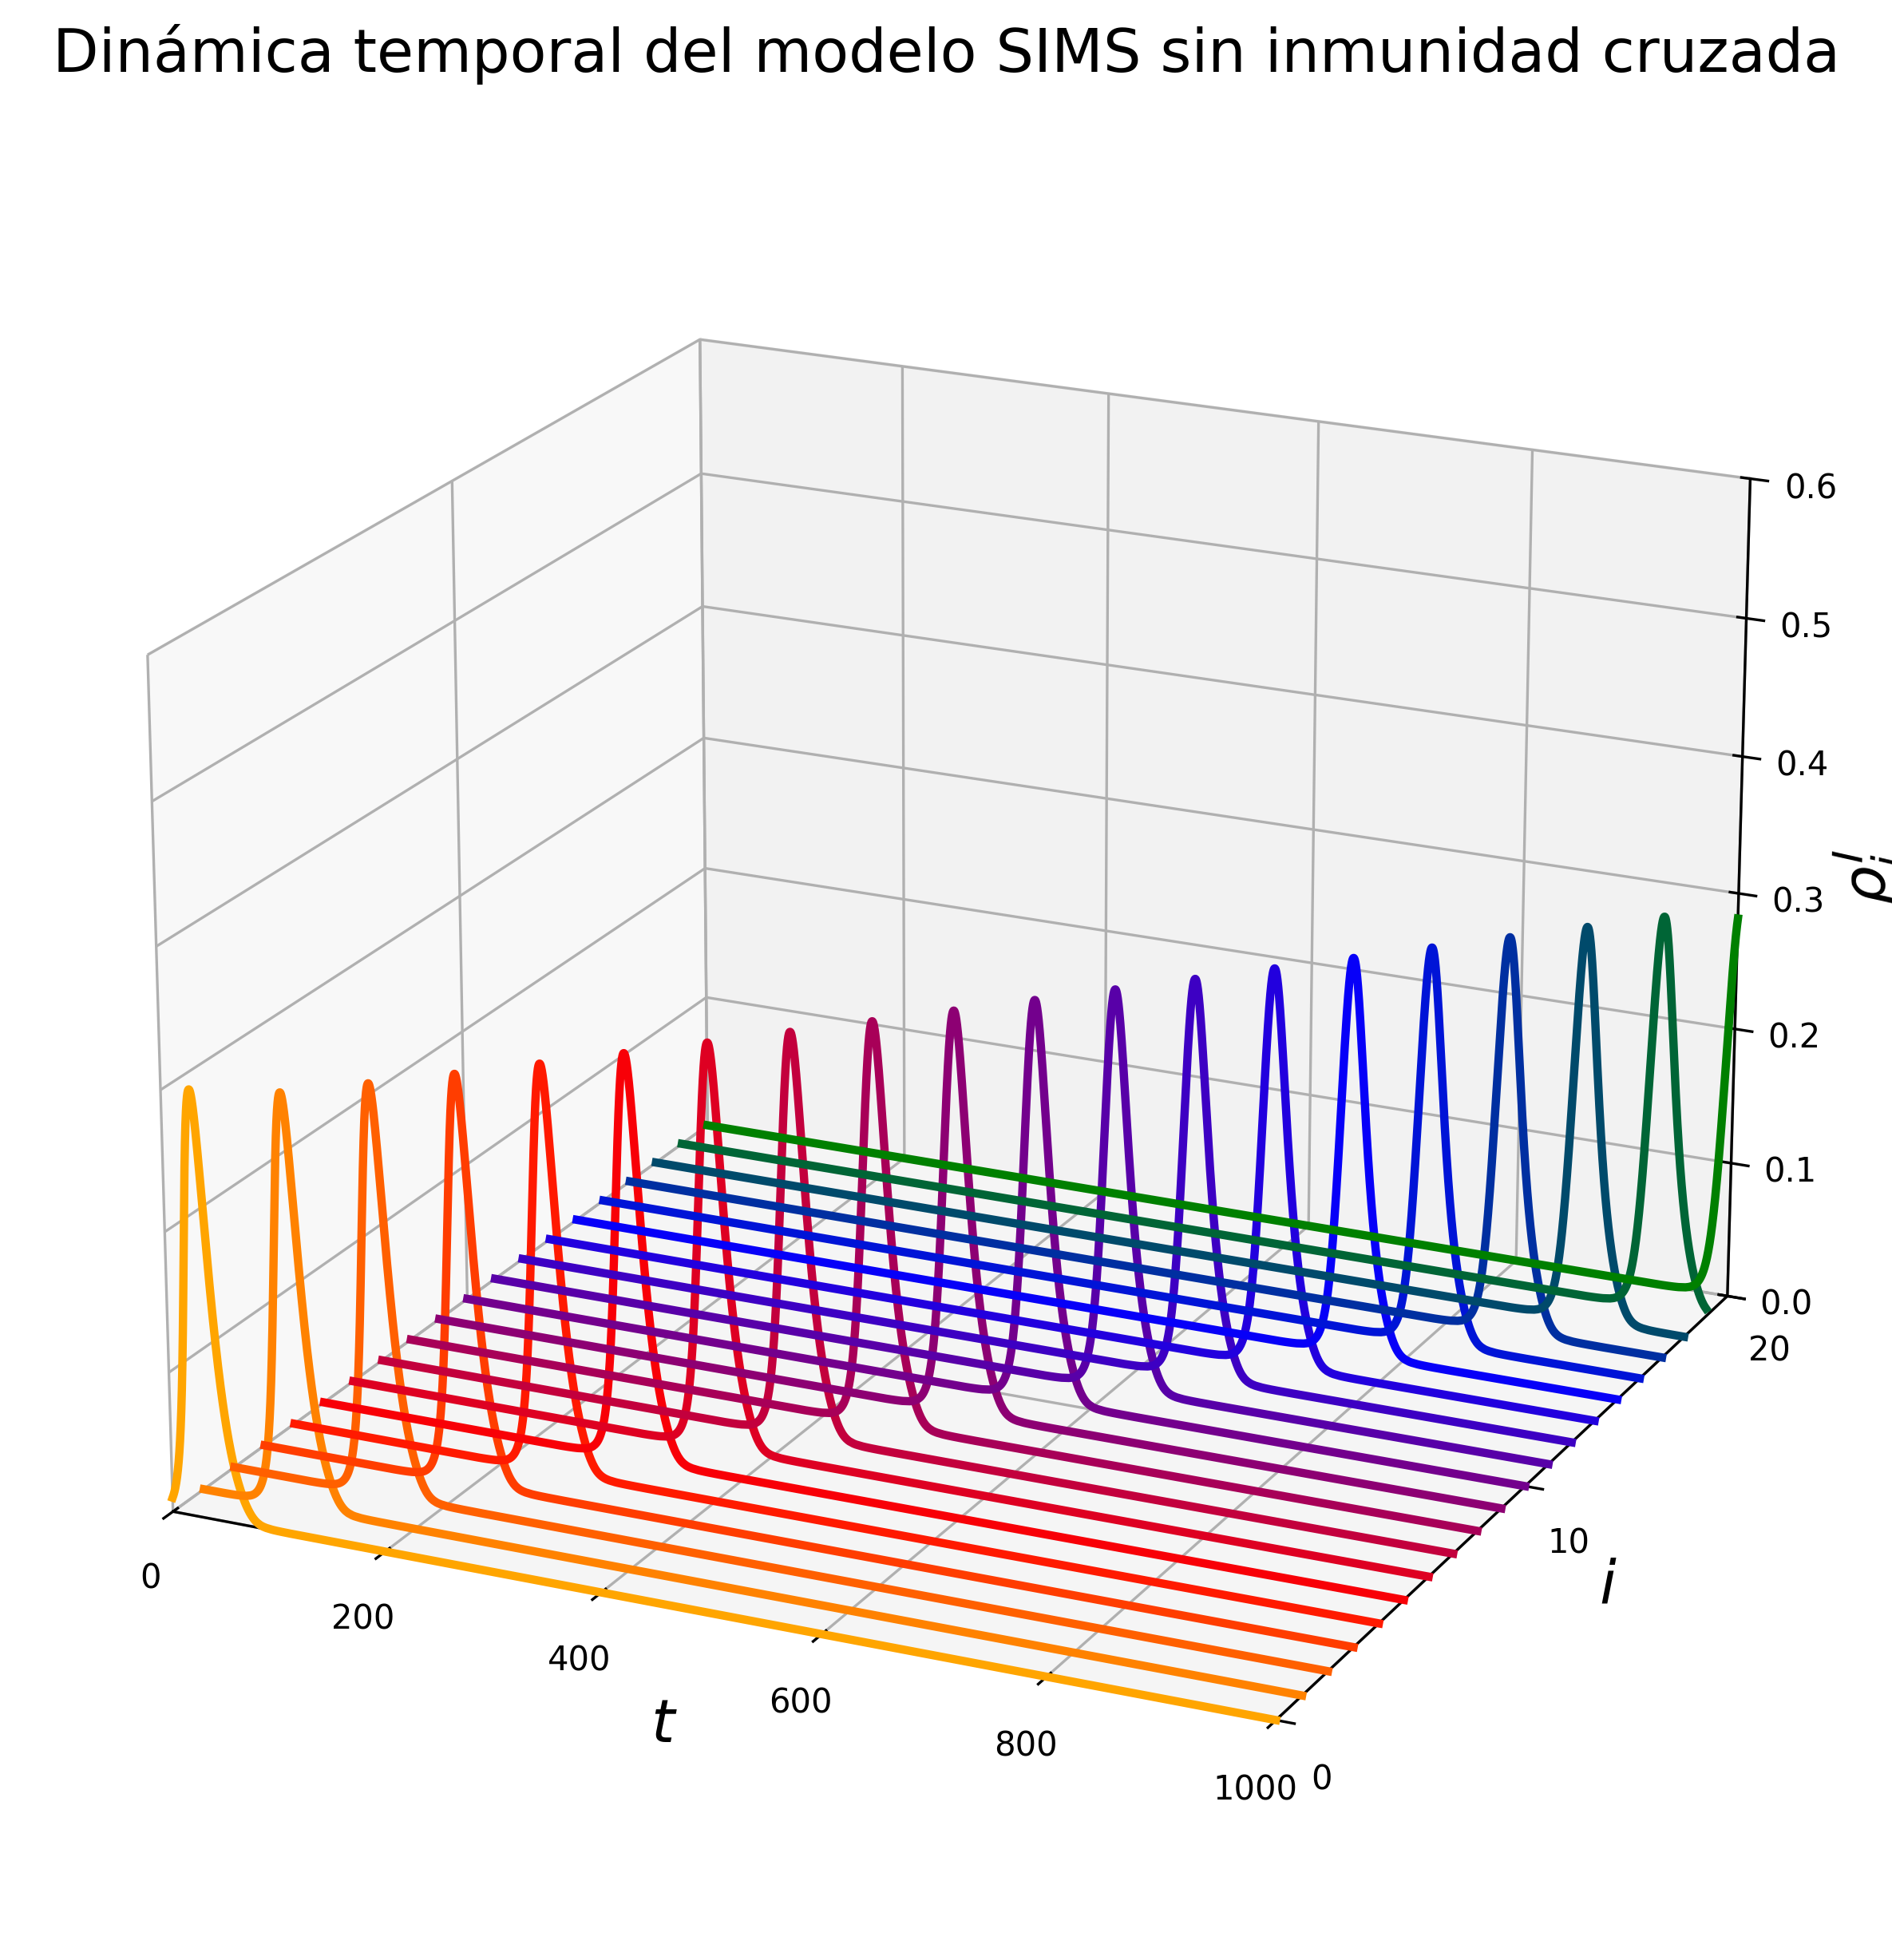
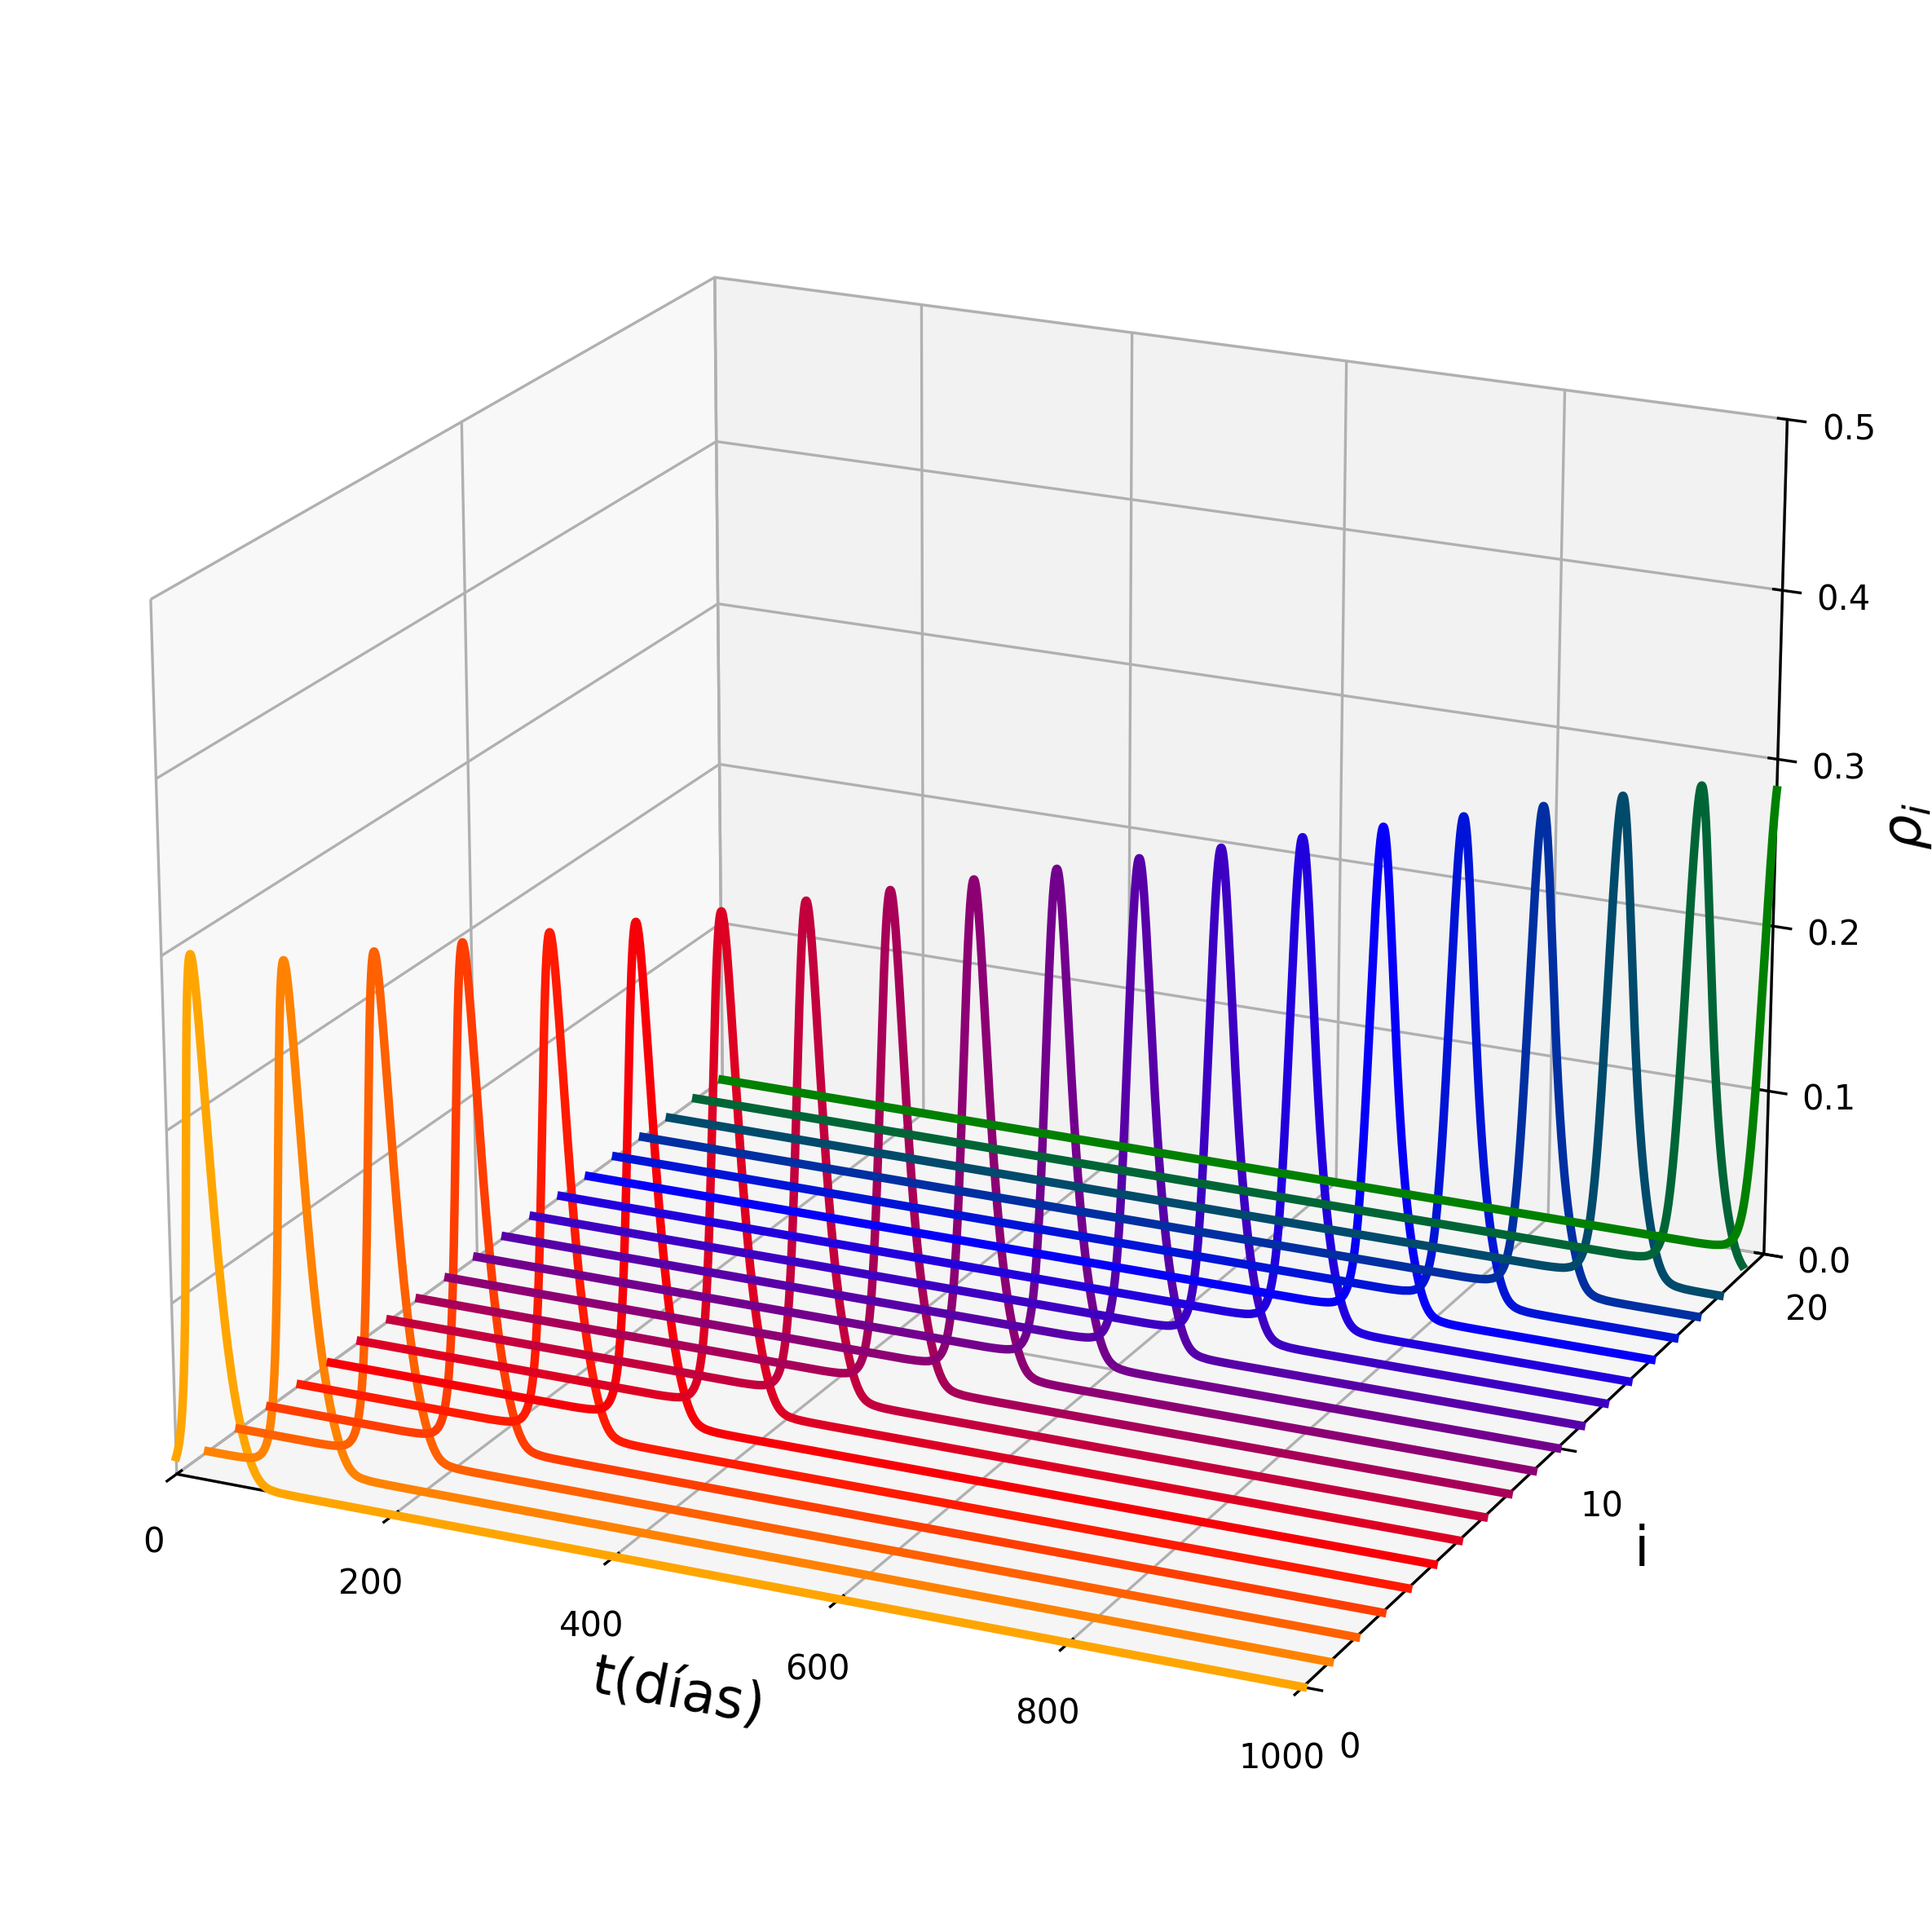
figura presentacion jorge

diff --git a/plot_fig1_1.py b/plot_fig1_1.py
@@ -41,11 +41,11 @@ plt.plot(sis[:,0], sis[:,1], lw=3, label="SIS")
 plt.plot(sir[:,0], sir[:,1], lw=3, label="SIR")
 plt.plot(sirs[:,0], sirs[:,1], lw=3, label="SIRS")
 
-plt.xlabel("t")
-plt.ylabel("I(t)")
+plt.xlabel("t (días)",fontsize=16)
+plt.ylabel("I(t)",fontsize=16)
 plt.xlim(0, 200)
 plt.ylim(0, 0.7) 
-plt.title("Dinámica temporal del modelo SIMS para una sola cepa", fontsize=14)
+##plt.title("DINÁMICA TEMPORAL DEL MODELO SIMS PARA UNA SOLA CEPA", fontsize=20,fontweight='bold')
 plt.legend()
 plt.tight_layout()
 plt.savefig(
@@ -81,20 +81,20 @@ for i in range(n):
         color=cmap(i)
     )
 
-ax.set_xlabel(r"$t$", fontsize=18)
-ax.set_ylabel(r"$i$", fontsize=18)
-ax.set_zlabel(r"$\rho_i^I$", fontsize=18)
+ax.set_xlabel("t(días)", fontsize=16)
+ax.set_ylabel("i", fontsize=16)
+ax.set_zlabel(r"$\rho_i$", fontsize=16)
 
 ax.set_yticks([0, 10, 19])
 ax.set_yticklabels(["0", "10", "20"])
 
 ax.set_xlim(0, 1000)
 ax.set_ylim(0, n - 1)
-ax.set_zlim(0, 0.6)
+ax.set_zlim(0, 0.5)
 
 ax.view_init(elev=20, azim=-65)
 
-plt.title("Dinámica temporal del modelo SIMS sin inmunidad cruzada", fontsize=18)
+##ax.set_title("DINÁMICA TEMPORAL SIN INMUNIDAD CRUZADA PARA UNA CADENA LINEAL DE 20 CEPAS", fontsize=20, fontweight='bold')
 
 plt.tight_layout()
 plt.savefig("plots/fig1_1/fig1_1_b.png", dpi=300, bbox_inches="tight")
@@ -136,11 +136,11 @@ ax.set_yticklabels(["0", "10", "20"])
 
 ax.set_xlim(0, 1000)
 ax.set_ylim(0, n - 1)
-ax.set_zlim(0, 0.6)
+ax.set_zlim(0, 0.5)
 
 ax.view_init(elev=20, azim=-65)
 
-plt.title("Dinámica temporal del modelo SIMS considerando inmunidad cruzada", fontsize=18)
+##plt.title("Dinámica temporal del modelo SIMS considerando inmunidad cruzada", fontsize=18)
 
 plt.tight_layout()
 plt.savefig("plots/fig1_1/fig1_1_c.png", dpi=300, bbox_inches="tight")